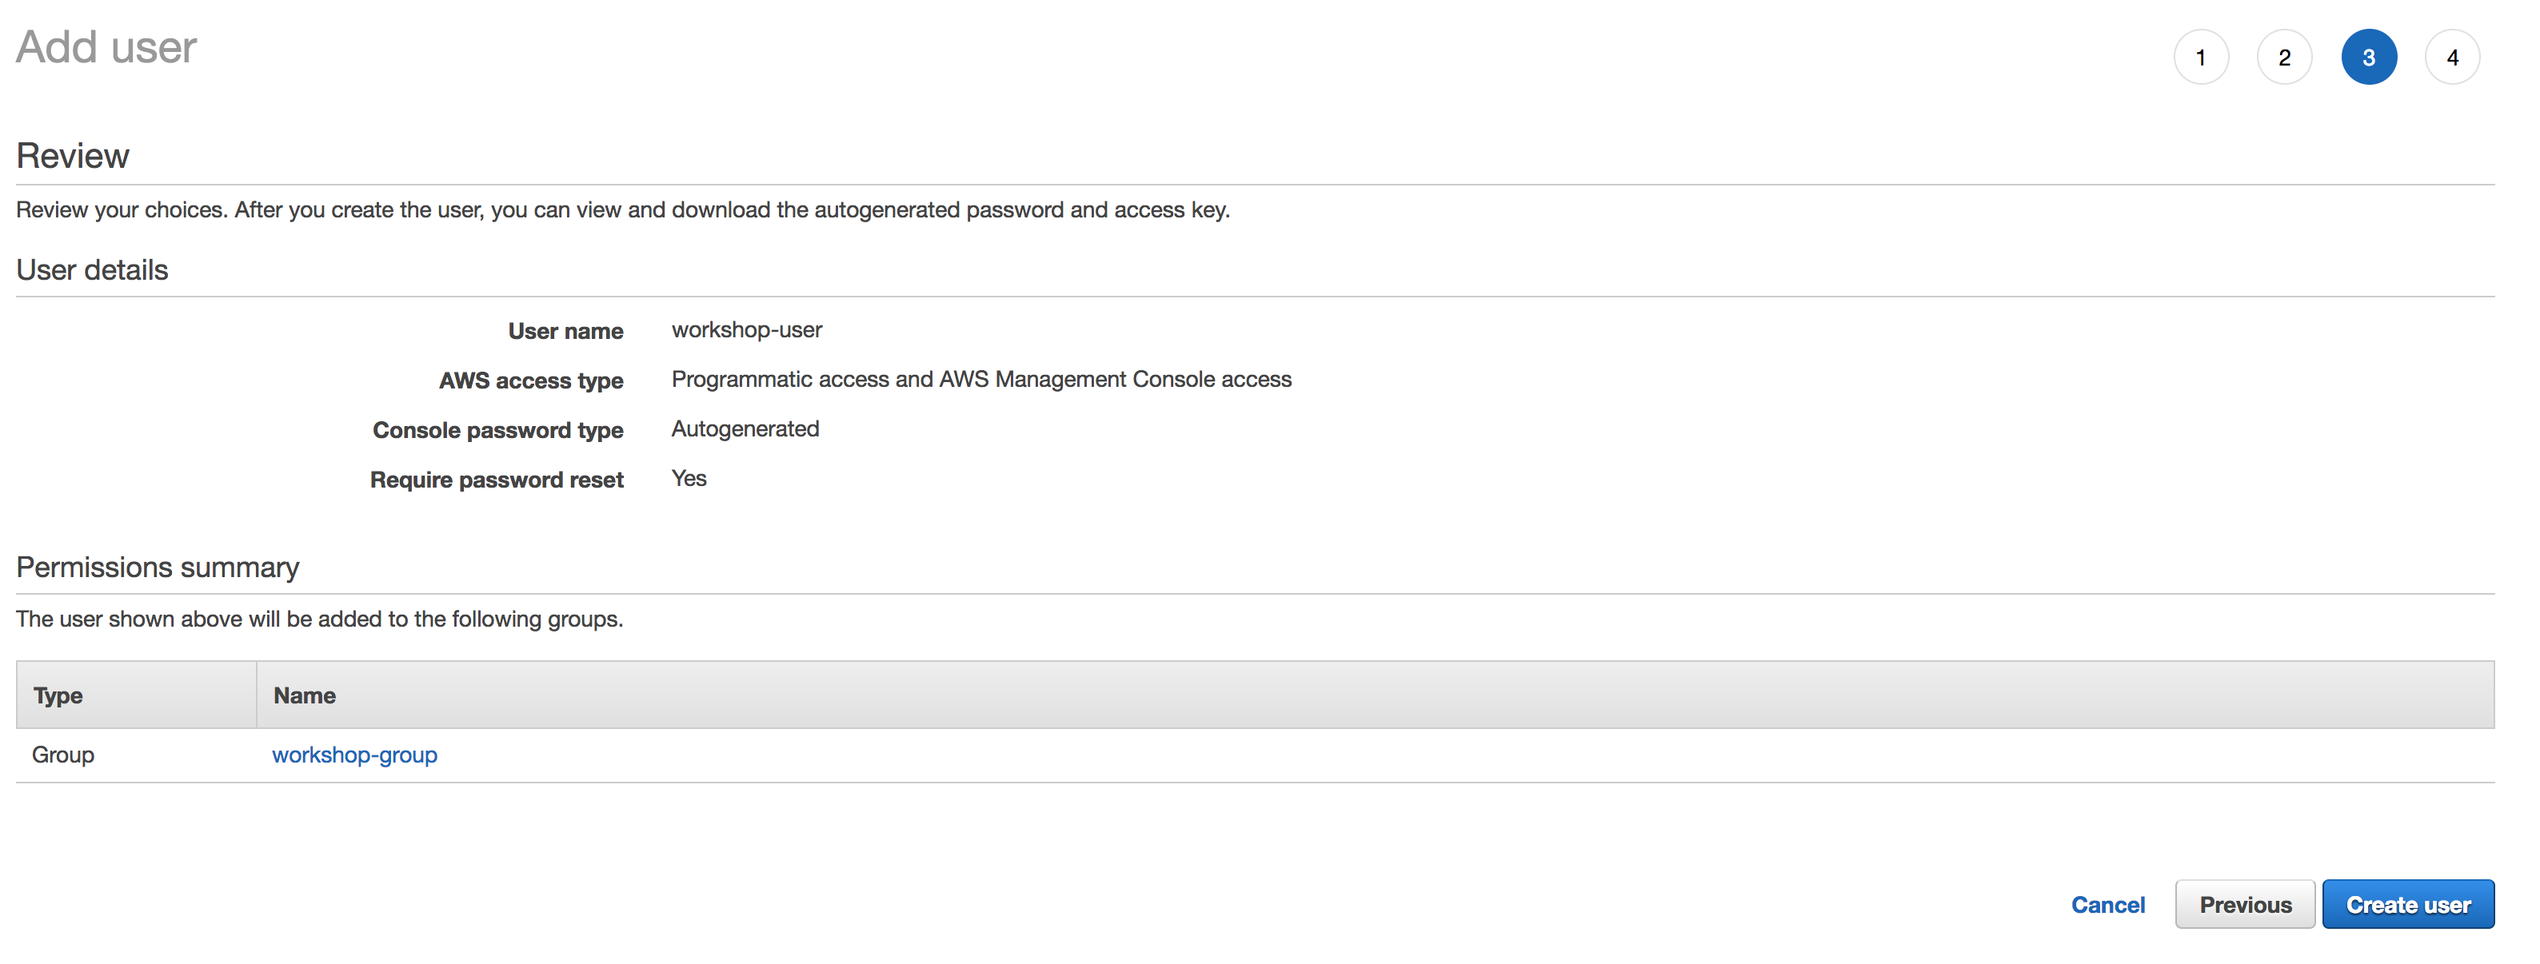
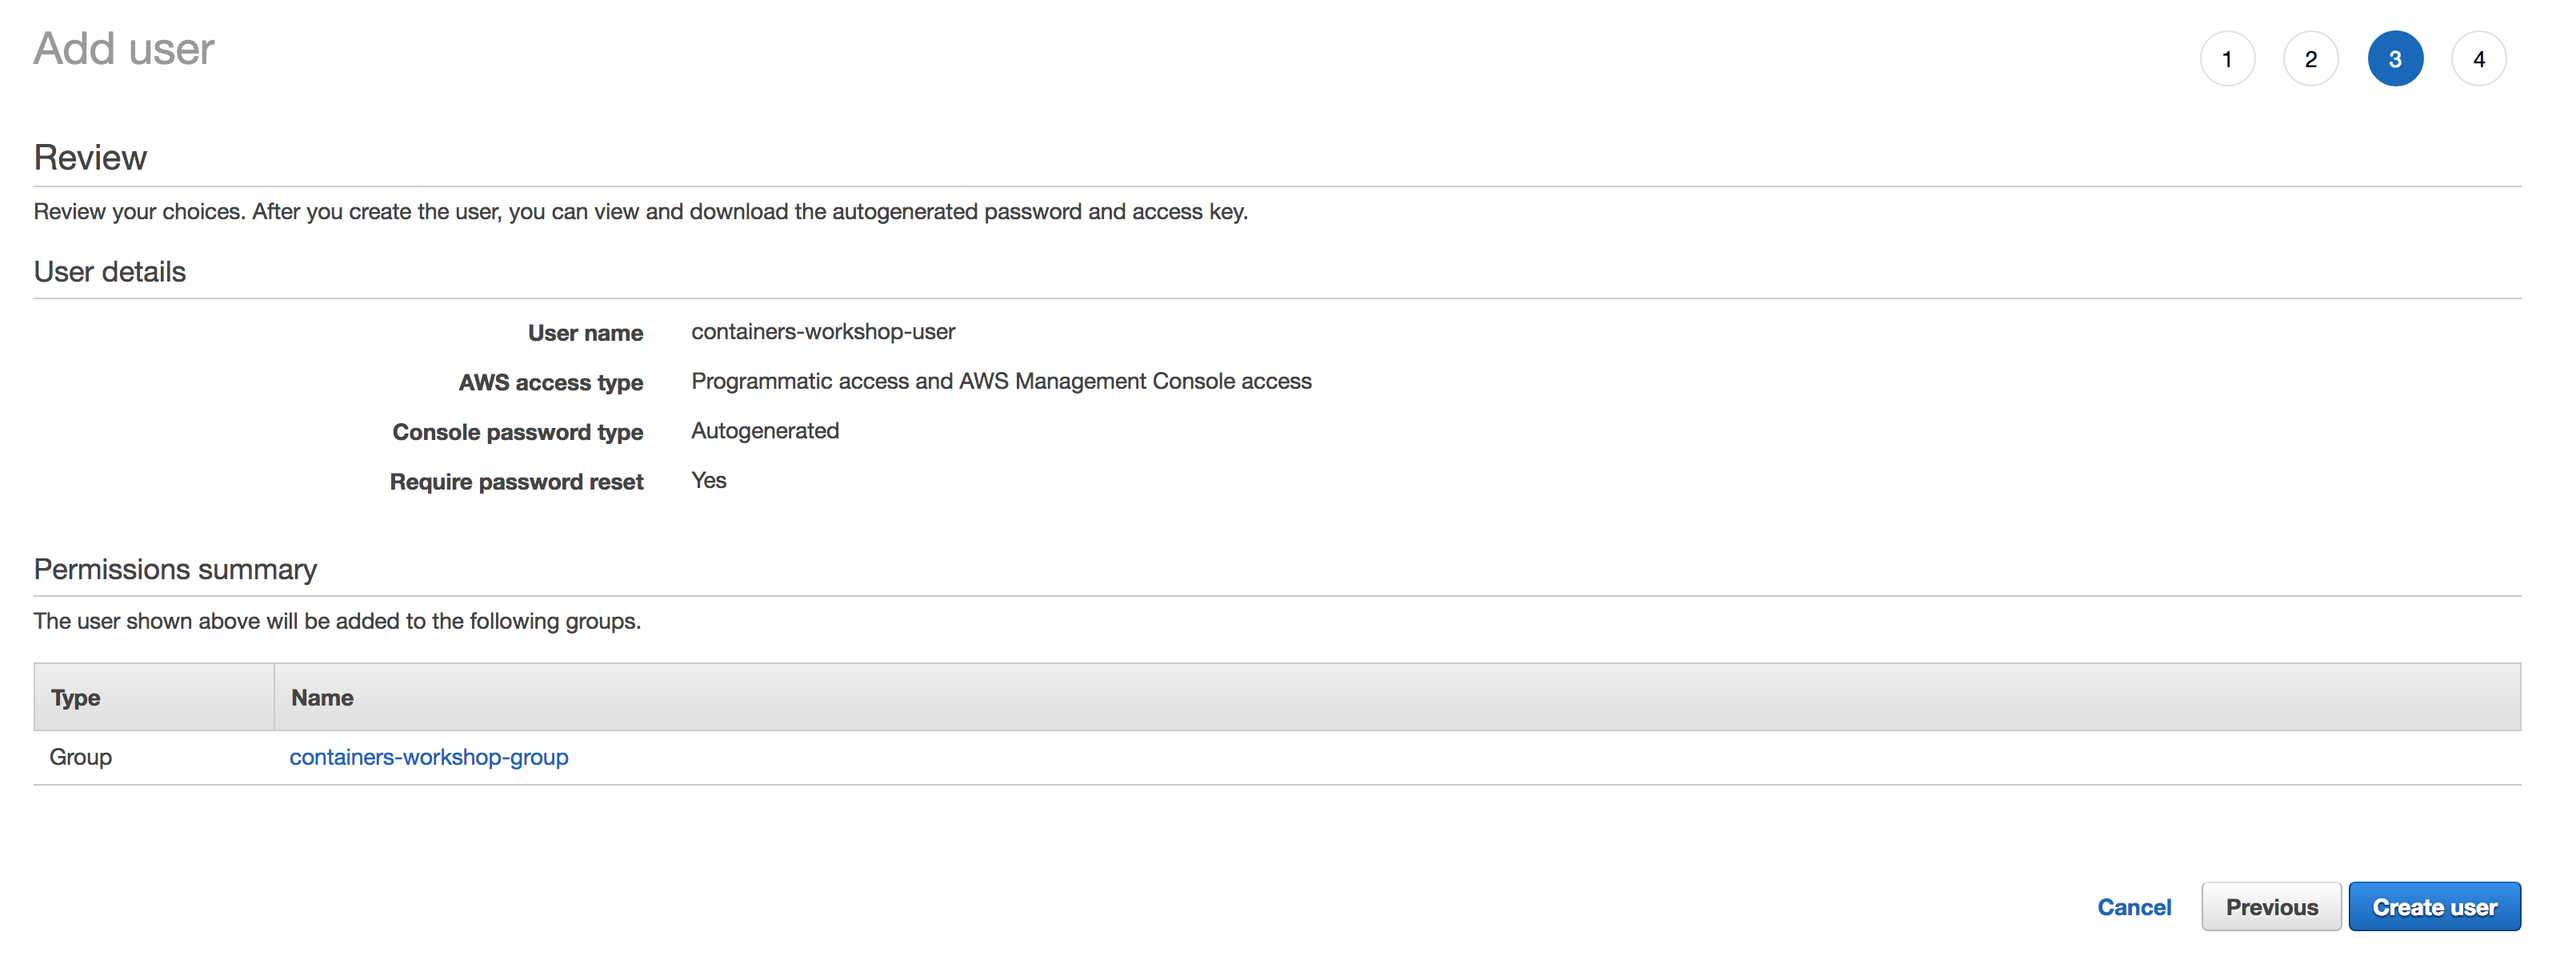
Updating application build steps

diff --git a/02-CreatingDockerImage/README.md b/02-CreatingDockerImage/README.md
@@ -55,34 +55,35 @@ If you haven't executed the `git clone` command present in the [Setup Environmen
 
 Now we are going to build and test our containers locally.  If you've never worked with Docker before, there are a few basic commands that we'll use in this workshop, but you can find a more thorough list in the [Docker "Getting Started" documentation](https://docs.docker.com/engine/getstarted/).
 
-To start your first container, go to the `app` directory in the project:
+In this step, we are going to build a *Docker image* with a simple web application. The application that we will be using is available on the directory `00-Application` inside the project folder. In this case, lets's navigate to the `00-Application` directory:
 
-    $ cd containers-on-aws-workshop/02-CreatingDockerImage/app
+    $ cd containers-on-aws-workshop/00-Application/
 
-And run the following command to build your image:
+Take a look on the contents of this directory. You will see that there is directory called `app/` and also a file named `Dockerfile`. We will be using this `Dockerfile` to package our web application. In order to do that, run the following command inside the `00-Application` directory:
 
-    $ docker build -t workshop-app .
+    $ docker build -t containers-containers-workshop-app .
 
 This should output steps that look something like this:
 
-    Sending build context to Docker daemon  4.608kB
-    Step 1/9 : FROM ubuntu:latest
-     ---> 20c44cd7596f
-    Step 2/9 : MAINTAINER brunemer@amazon.com
-     ---> Running in 2d3745e79c4f
-     ---> 06781c0980fb
-    Removing intermediate container 2d3745e79c4f
-    Step 3/9 : RUN apt-get update -y && apt-get install -y python-pip python-dev build-essential
-     ---> Running in 7e3bf79f03a2
+    Sending build context to Docker daemon  9.295MB
+    Step 1/9 : FROM node:alpine
+     ---> 5ce79d7a9aad
+    Step 2/9 : COPY app/ /app
+     ---> 5db182714408
+    Step 3/9 : WORKDIR /app
+    Removing intermediate container 0fed50590e13
+     ---> 8b89b65c5c67
+    Step 4/9 : RUN npm install --global gulp && npm install gulp
+     ---> Running in f86ae7a1e8bb
 
 If the container builds successfully, the output should end with something like this:
 
-     Removing intermediate container d2cd523c946a
-     Successfully built ec59b8b825de
+    Successfully built 0c50204fc662
+    Successfully tagged containers-containers-workshop-app:latest
 
 To run your container:
 
-     $  docker run -d -p 3000:3000 workshop-app
+     $  docker run -d -p 80:80 containers-workshop-app
 
 To check if your container is running:
 
@@ -90,27 +91,24 @@ To check if your container is running:
 
 This should return a list of all the currently running containers.  In this example,  it should just return a single container, the one that we just started:
 
-    CONTAINER ID        IMAGE               COMMAND             CREATED             STATUS              PORTS                    NAMES
-    71f2f6b9fa68        workshop-app        "python app.py"     5 seconds ago       Up 4 seconds        0.0.0.0:3000->3000/tcp   happy_galileo
+    CONTAINER ID        IMAGE               COMMAND             CREATED             STATUS              PORTS                          NAMES
+    051fda8b734f        ecs-app             "node server.js"    2 minutes ago       Up 2 minutes        0.0.0.0:80->80/tcp, 8080/tcp   modest_thompson
 
 
-To test the actual container output, we can use the `curl` command:
+To test the actual container output, you can access it using your web browser with the following address:
 
-    $ curl localhost:3000/app;echo
+    http://localhost/
 
-If everything went fine, you should see your application HTML code:
+If everything went fine, you should see your web application:
 
-    Hello! You have created your first container. <br/> <br/> This is the first step in your world domination
-
->NOTE: If you are running the workshop on your computer, you can just open the URL http://localhost:3000/app in your web browser to access the application.
+![web application](https://github.com/bemer/containers-on-aws-workshop/blob/master/02-CreatingDockerImage/images/web_application.png)
 
 
 ## 3. Setting up the IAM roles
 
 In order to work with the AWS CLI, you'll need an IAM role with the proper permissions set up.  To do this, we'll create both an IAM Group, and an IAM user.
 
-To create the group, navigate to the IAM console, and select **Groups** > **Create New Group**.  Name the group "**workshop-group**".  From the list of managed policies, add the following policies:
-
+To create the group, navigate to the [IAM console](https://console.aws.amazon.com/iam/home?region=us-east-1#/home), and select **Groups** > **Create New Group**.  Name the group "**containers-workshop-group**".  From the list of managed policies, add the following policies:
 
 * AmazonEC2ContainerRegistryFullAccess
 * AmazonEC2ContainerServiceFullAccess
@@ -121,13 +119,15 @@ This is how your group permissions should like after the creation:
 
 Once you've created your group, you need to create a new user and attach this new user to this group. In order to do so, on the IAM console, click in **Users** on the left side of the screen, and them click in the button **Add user**.
 
-The user name will be **workshop-user**. Don't forget to select the **Programmatic access** and the **AWS Management Console access** in the `Access type` just like in the following picture:
+The user name will be **containers-workshop-user**. Don't forget to select the **Programmatic access** and the **AWS Management Console access** in the `Access type` just like in the following picture:
 
 ![creating user](https://github.com/bemer/containers-on-aws-workshop/blob/master/02-CreatingDockerImage/images/creating_user.png)
 
-Now, click in **Next: permissions** and in the **Add user to group** screen, select the group `workshop-group` that we created before:
+Now, click in **Next: permissions** and in the **Add user to group** screen, select the group `containers-workshop-group` that we created before:
 
 ![add user to group](https://github.com/bemer/containers-on-aws-workshop/blob/master/02-CreatingDockerImage/images/add_user_to_group.png)
+
+>NOTE: If you already have more groups created in your account, you can use the `Search` on the IAM console to find the group that you created before, just like in the picture.
 
 Click in **Next: Review** and check if is everything fine with your user creation. The screen should be similar to this one:
 
@@ -137,7 +137,7 @@ In this screen, click in **Create user**.
 
 When the wizard finishes, make sure to download and save your access key and secret key.  You'll need them in the next step.
 
->NOTE: The Secret access key is presented only once, during the user creation. If you loose this information, you will need to create a new Access and Secret keys in order to authenticate again with the same user.
+>NOTE: The Secret access key is presented only once, during the user creation. If you loose this information, you will need to create a new Access and Secret keys in order to authenticate with this user.
 
 ## 4. Configuring the AWS CLI
 
@@ -153,13 +153,13 @@ This should drop you into a setup wizard. In this wizard, complete each field wi
     Default region name [us-east-1]:
     Default output format [json]:
 
-If you already have a profile setup with the AWS CLI, you can also add a new profile to your credentials file. In order to add another profile, edit your credentials (usually located in *~/.aws/credentials*) and add a new profile called "**container-workshop**". After adding this new profile, your credentials file will be like this:
+If you already have a profile setup with the AWS CLI, you can also add a new profile to your credentials file. In order to add another profile, edit your credentials (usually located in *~/.aws/credentials*) and add a new profile called "**containers-workshop**". After adding this new profile, your credentials file will be like this:
 
     [default]
     aws_access_key_id = AKIABCDMYKEYEXAMPLE1
     aws_secret_access_key = CAFESECRETACCESSKEYEXAMPLE001
 
-    [container-workshop]
+    [containers-workshop]
     aws_access_key_id = AKIABCDMYKEYEXAMPLE2
     aws_secret_access_key = CAFESECRETACCESSKEYEXAMPLE002
 
@@ -192,7 +192,7 @@ Before we can build and push our images, we need somewhere to push them to.  In 
 
 To create a repository, navigate to the [ECS console](https://console.aws.amazon.com/ecs/home?region=us-east-1), and select **Repositories**.  From there, click in the **Get Started**.
 
-Name your first repository **workshop-app**:
+Name your first repository **containers-workshop-app**:
 
 ![create ecr repository](https://github.com/bemer/containers-on-aws-workshop/blob/master/02-CreatingDockerImage/images/creating_repository.png)
 
@@ -226,8 +226,8 @@ If you are unable to login to ECR, check your IAM user group permissions.
 
 Now, let's tag our image locally and them push our image to the ECR repository. Use the following commands:
 
-    $ docker tag workshop-app:latest XXXXXXXXX.dkr.ecr.us-east-1.amazonaws.com/workshop-app:latest
-    $ docker push XXXXXXXXX.dkr.ecr.us-east-1.amazonaws.com/workshop-app:latest
+    $ docker tag containers-workshop-app:latest XXXXXXXXX.dkr.ecr.us-east-1.amazonaws.com/containers-workshop-app:latest
+    $ docker push XXXXXXXXX.dkr.ecr.us-east-1.amazonaws.com/containers-workshop-app:latest
 
 >NOTE: Remember to replace the `XXXXXXXXX` with your account ID. This information will be presented to you in the ECR screen with the Docker push commands.
 
@@ -236,7 +236,7 @@ Now, let's tag our image locally and them push our image to the ECR repository. 
 
 This step will take some minutes. When the command finishes, you should see something like this:
 
-    The push refers to a repository [XXXXXXXXX.dkr.ecr.us-east-1.amazonaws.com/workshop-app]
+    The push refers to a repository [XXXXXXXXX.dkr.ecr.us-east-1.amazonaws.com/containers-workshop-app]
     9ef5219507db: Pushed
     b3d18e8f520f: Pushed
     a83b4d2ff3a0: Pushed
@@ -250,7 +250,7 @@ This step will take some minutes. When the command finishes, you should see some
 
 You can see your pushed images by viewing the repository in the AWS Console.  Alternatively, you can use the CLI:
 
-    $ aws ecr list-images --repository-name=workshop-app --region us-east-1
+    $ aws ecr list-images --repository-name=containers-workshop-app --region us-east-1
     {
         "imageIds": [
             {
